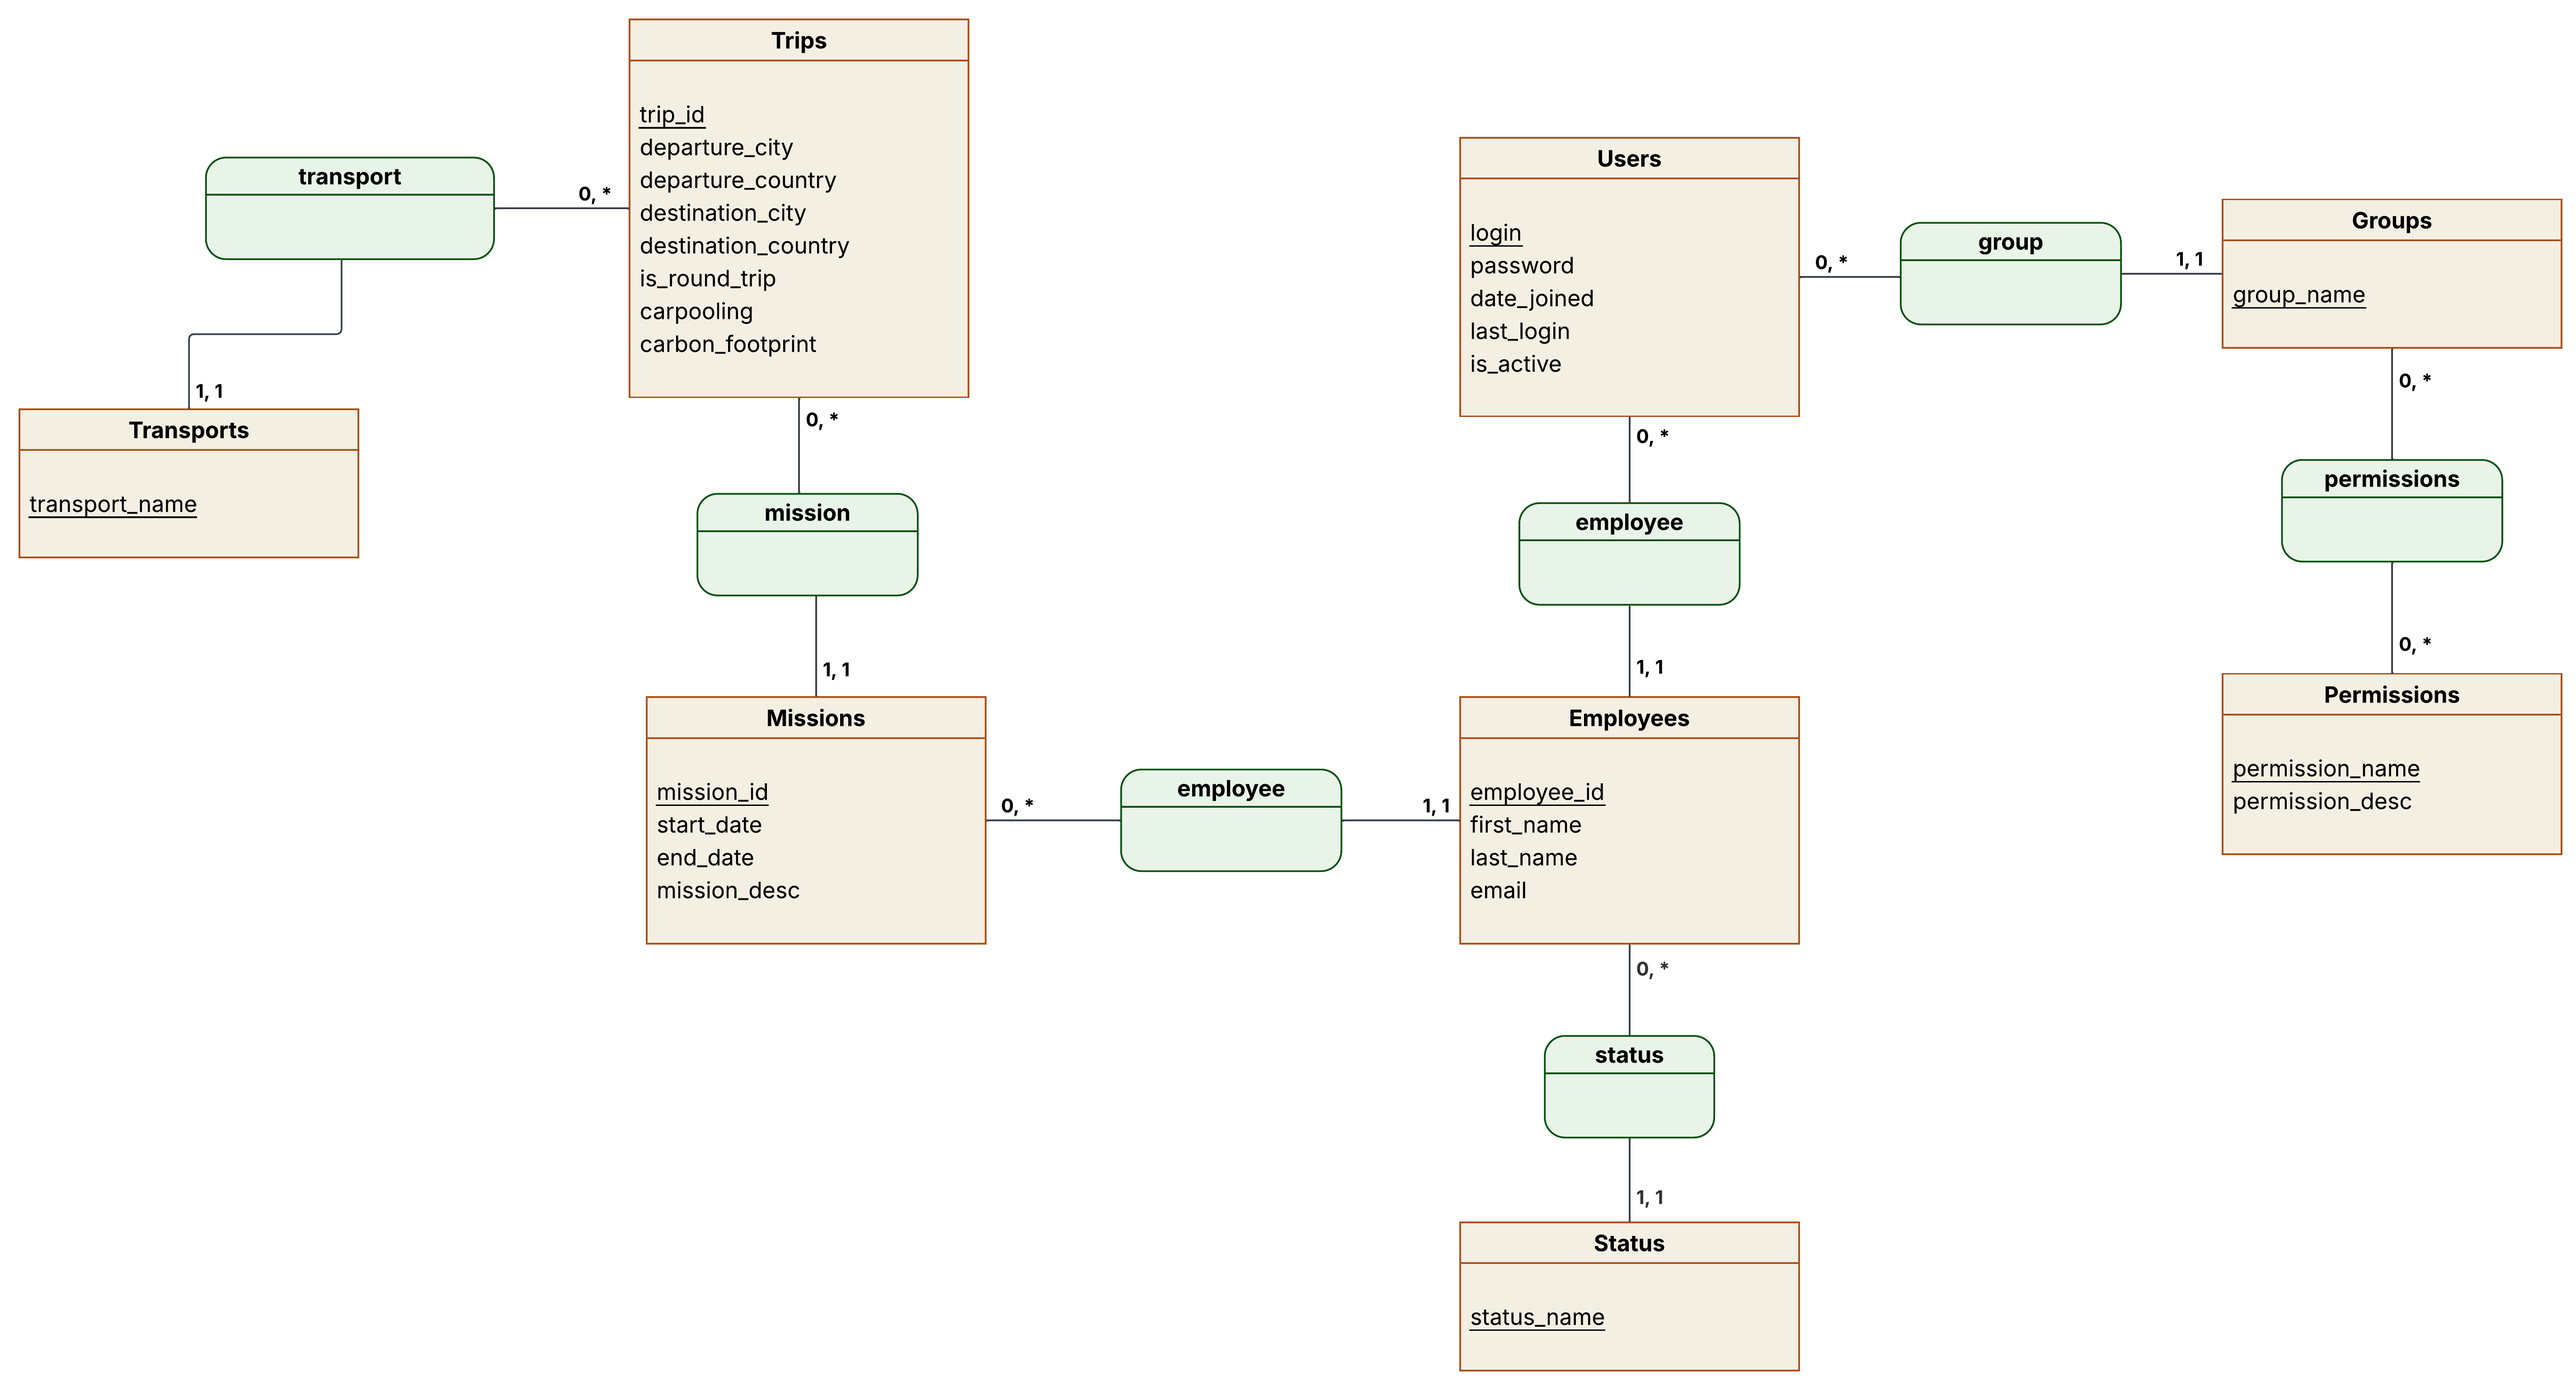
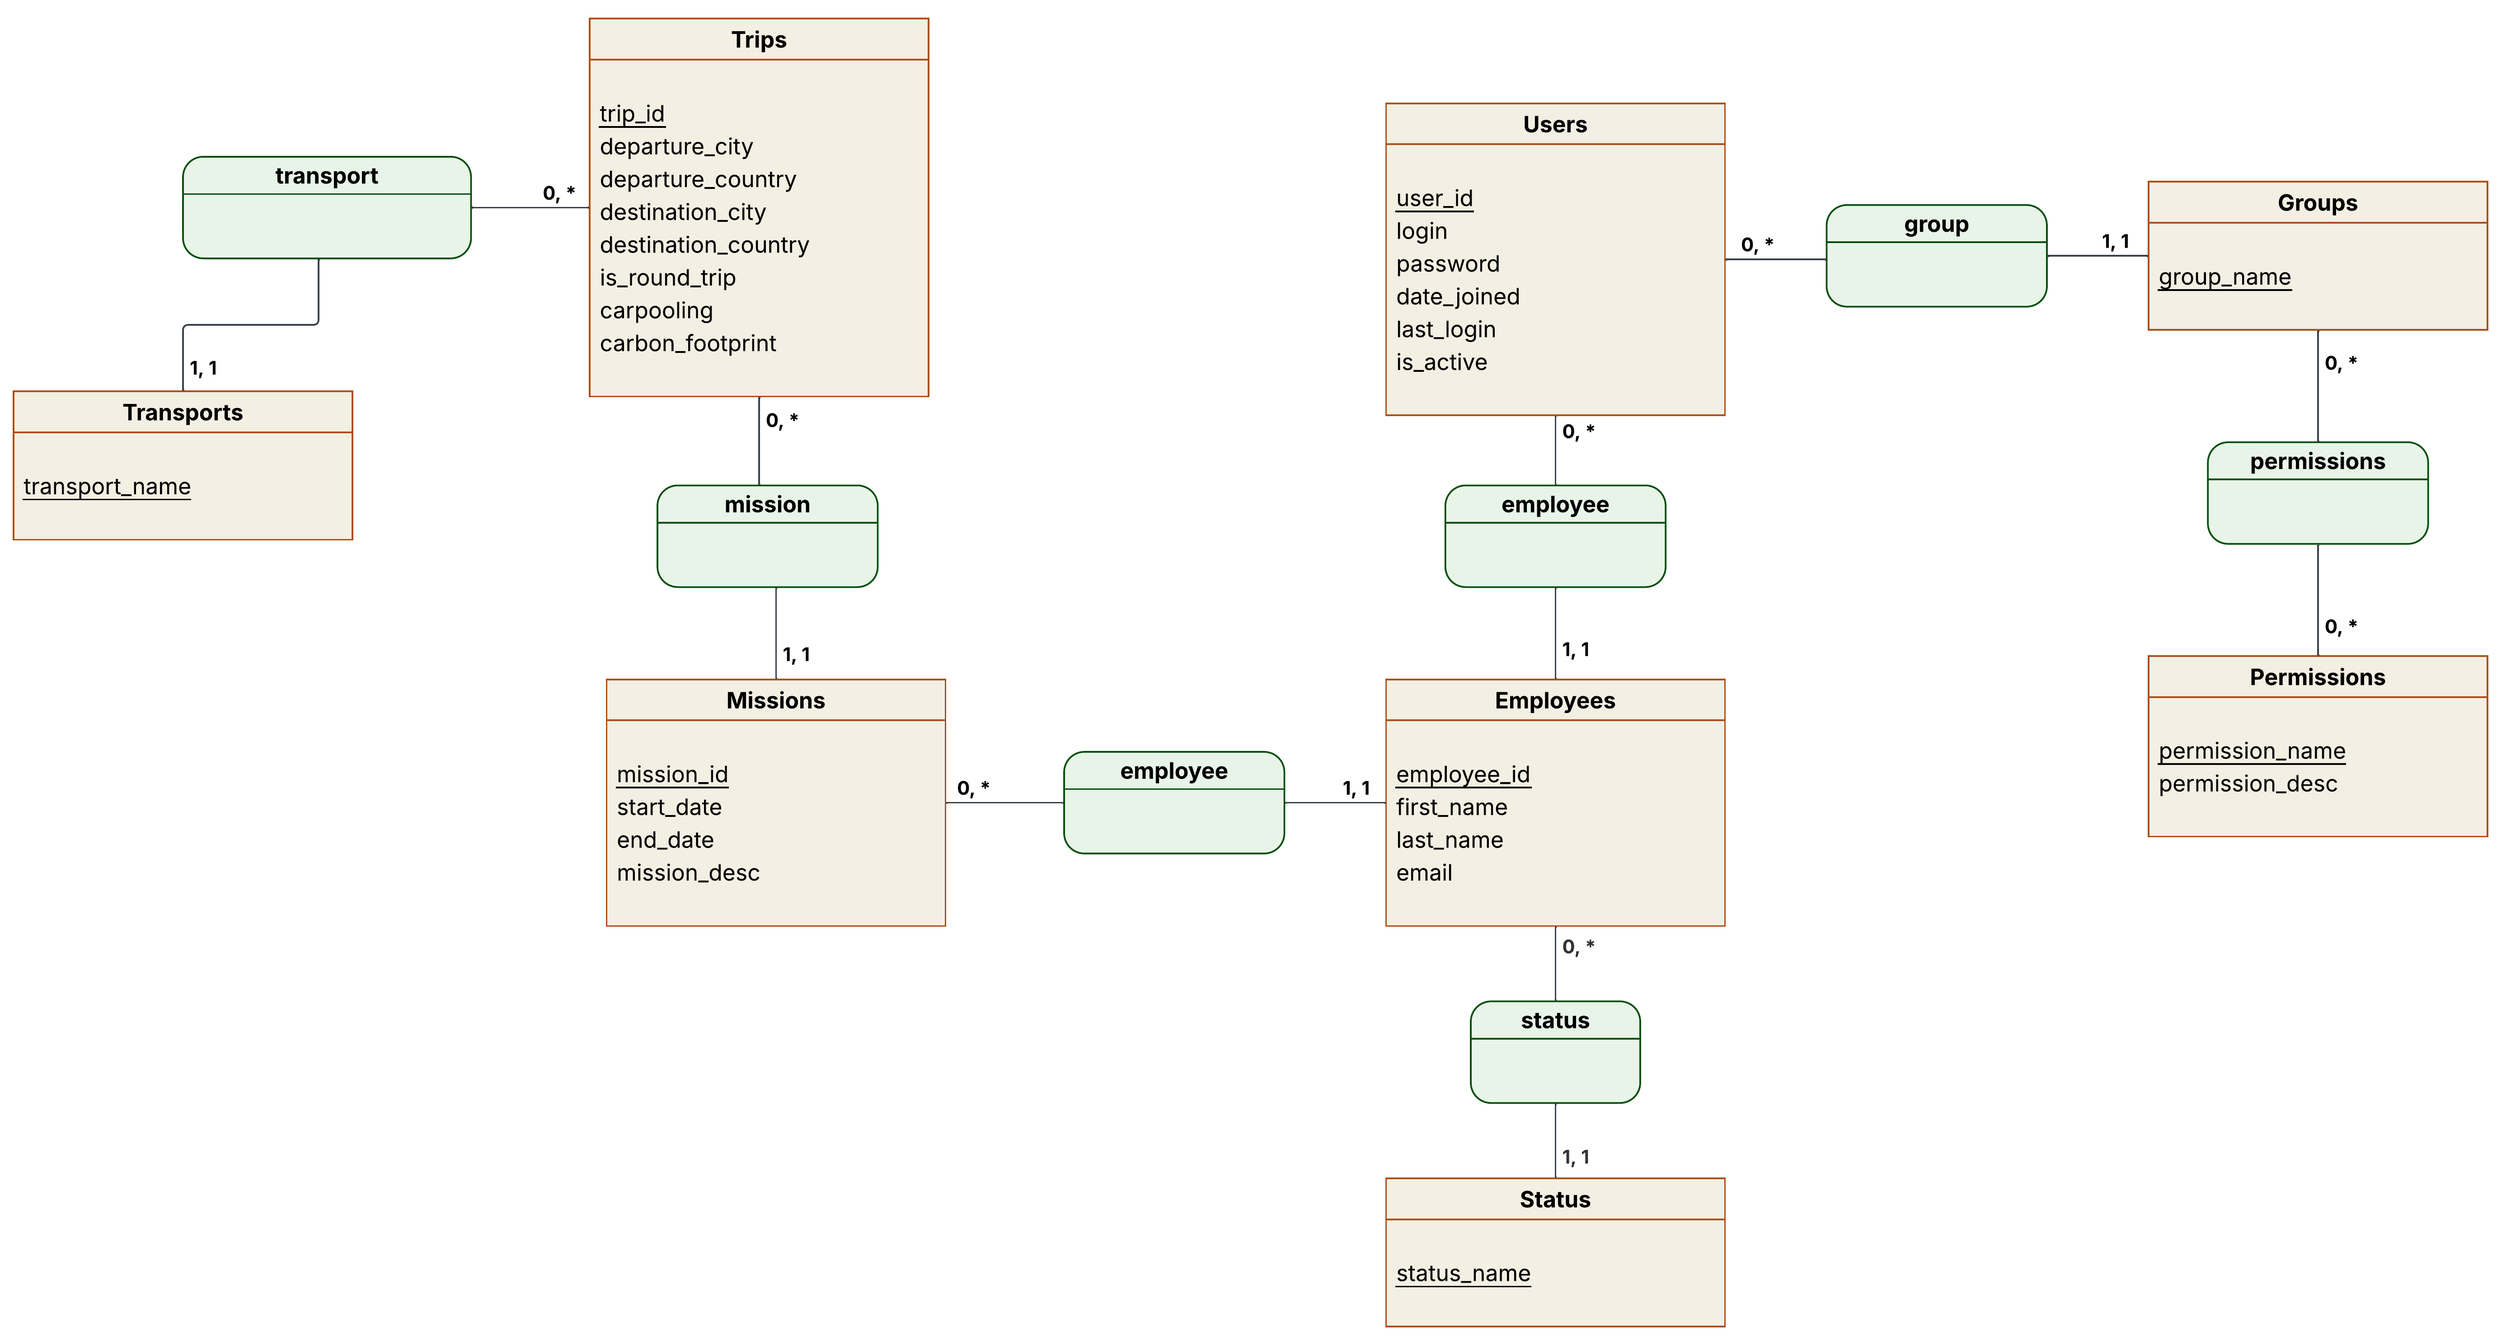
add user_id

diff --git a/webapp/src/pages/UserForm.vue b/webapp/src/pages/UserForm.vue
@@ -10,12 +10,11 @@
                     <input type="text" 
                     v-model="form.login" 
                     class="input" 
-                    :readonly="props.task === 'modify'" 
                     required />
                 </div>
             </div>
 
-            <div class="field mb-5" v-if="props.task==='add'">
+            <div class="field mb-5">
                 <label class="label has-text-weight-medium has-text-grey-dark">Password</label>
                 <div class="control">
                     <input type="password" 
@@ -25,7 +24,7 @@
                 </div>
             </div>
 
-            <div class="field mb-5" v-if="props.task==='add'">
+            <div class="field mb-5">
                 <label class="label has-text-weight-medium has-text-grey-dark">Confirm Password</label>
                 <div class="control">
                     <input type="password" v-model="confirm_password" class="input" required />
@@ -132,8 +131,9 @@ const employees = computed(() => store.state.employees)
 const groups = computed(() => store.state.groups)
 
 const form = ref({
+  user_id: props.user?.user_id || null,
   login: props.user?.login || '',
-  password: '',
+  password: props.user?.password || '',
   is_active: props.user?.is_active ?? true,
   group: {
     group_name: props.user?.group?.group_name || 'standard',
@@ -152,7 +152,7 @@ const form = ref({
 
 const formatEmployee = (emp) => `${emp.first_name} ${emp.last_name} <${emp.email}>`
 
-const confirm_password = ref('');
+const confirm_password = ref(props.user ? props.user.password : '');
 
 const selectedEmployee = ref(props.user ? formatEmployee(props.user.employee) : '')
 
@@ -201,8 +201,9 @@ const submitForm = async () => {
 onMounted(() => {
   if (props.user) {
     form.value = {
+      user_id: props.user.user_id,
       login: props.user.login,
-      password: '',
+      password: props.user?.password || '',
       is_active: props.user.is_active,
       group: {
         group_name: props.user.group?.group_name

diff --git a/webapp/src/pages/AdminPage.vue b/webapp/src/pages/AdminPage.vue
@@ -256,6 +256,9 @@ const deleteUser = async (user) => {
 }
 
 function showUserForm(user, task) {
+  if (task === 'modify') {
+    user.password = '*****'
+  }
   selectedUser.value = user
   taskValue.value = task
   userFormActive.value = true

diff --git a/django_api/users/UserView.py b/django_api/users/UserView.py
@@ -28,12 +28,12 @@ class UserView(APIView):
         if not IsDeleteUserPermission().has_permission(request, self):
             return Response({'detail': 'Permission denied.'}, status=status.HTTP_403_FORBIDDEN)
 
-        user_login = request.data.get('login')
-        if not user_login:
-            return Response({'error': 'user_login is required.'}, status=status.HTTP_400_BAD_REQUEST)
+        user_id = request.data.get('user_id')
+        if not user_id:
+            return Response({'error': 'user_id is required.'}, status=status.HTTP_400_BAD_REQUEST)
 
         try:
-            user = User.objects.get(login=user_login)
+            user = User.objects.get(user_id=user_id)
             user.delete()
             return Response({'message': 'User deleted successfully.'}, status=status.HTTP_204_NO_CONTENT)
         except User.DoesNotExist:
@@ -61,17 +61,18 @@ class UserView(APIView):
         if not IsModifyUserPermission().has_permission(request, self):
             return Response({'detail': 'Permission denied.'}, status=status.HTTP_403_FORBIDDEN)
 
-        login = request.data.get('login')
-        if not login:
-            return Response({'error': 'login is required.'}, status=status.HTTP_400_BAD_REQUEST)
+        user_id = request.data.get('user_id')
+        if not user_id:
+            return Response({'error': 'user_id is required.'}, status=status.HTTP_400_BAD_REQUEST)
 
         try: # Get user row
-            user = User.objects.get(login=login)
+            user = User.objects.get(user_id=user_id)
         except User.DoesNotExist:
             return Response({'error': 'User not found.'}, status=status.HTTP_404_NOT_FOUND)
         
         data = request.data.copy()
-        data['password'] = user.password # keep user password
+        if data['password'] == '*****':
+            data['password'] = user.password # keep user password
 
         # Pass request.data with partial=True for partial update
         serializer = UserSerializer(user, data=data, partial=True)

diff --git a/django_api/users/UserSerializer.py b/django_api/users/UserSerializer.py
@@ -21,7 +21,8 @@ class UserSerializer(serializers.ModelSerializer):
 
     class Meta:
         model = User
-        fields = ['login', 'password', 'date_joined', 'last_login', 'is_active', 'group', 'employee']
+        fields = ['user_id', 'login', 'password', 'date_joined', 'last_login', 'is_active', 'group', 'employee']
+        read_only_fields = ['user_id']
 
     def create(self, validated_data):
         # Nested data from the payload
@@ -51,6 +52,7 @@ class UserSerializer(serializers.ModelSerializer):
         # Nested data from the payload
         employee_data = validated_data.pop('employee')
         group_data = validated_data.pop('group')
+        password = validated_data.pop('password')
 
         # Retrieve Employee instance
         instance.employee = Employee.objects.get(email=employee_data['email'])
@@ -61,6 +63,8 @@ class UserSerializer(serializers.ModelSerializer):
         # Update other fields
         for attr, value in validated_data.items():
             setattr(instance, attr, value)
+
+        instance.set_password(password)
 
         instance.save()
         return instance

diff --git a/django_api/users/UserModel.py b/django_api/users/UserModel.py
@@ -59,7 +59,8 @@ class Group_permission(models.Model):
 
 
 class User(AbstractBaseUser):
-    login = models.CharField(max_length=50, primary_key=True)  # User login
+    user_id = models.AutoField(primary_key=True)
+    login = models.CharField(max_length=50, unique=True)  # User login
     password = models.CharField(max_length=128)  # Hashed password
     date_joined = models.DateField()
     last_login = models.DateTimeField()

diff --git a/django_api/settings.py b/django_api/settings.py
@@ -3,7 +3,7 @@ from pathlib import Path
 from datetime import timedelta
 from dotenv import load_dotenv
 
-BASE_DIR = Path(__file__).resolve().parent.parent  # Project base dir
+BASE_DIR = Path(__file__).resolve().parent  # Project base dir
 
 # Load .env file
 load_dotenv(os.path.join(BASE_DIR, '.env'))
